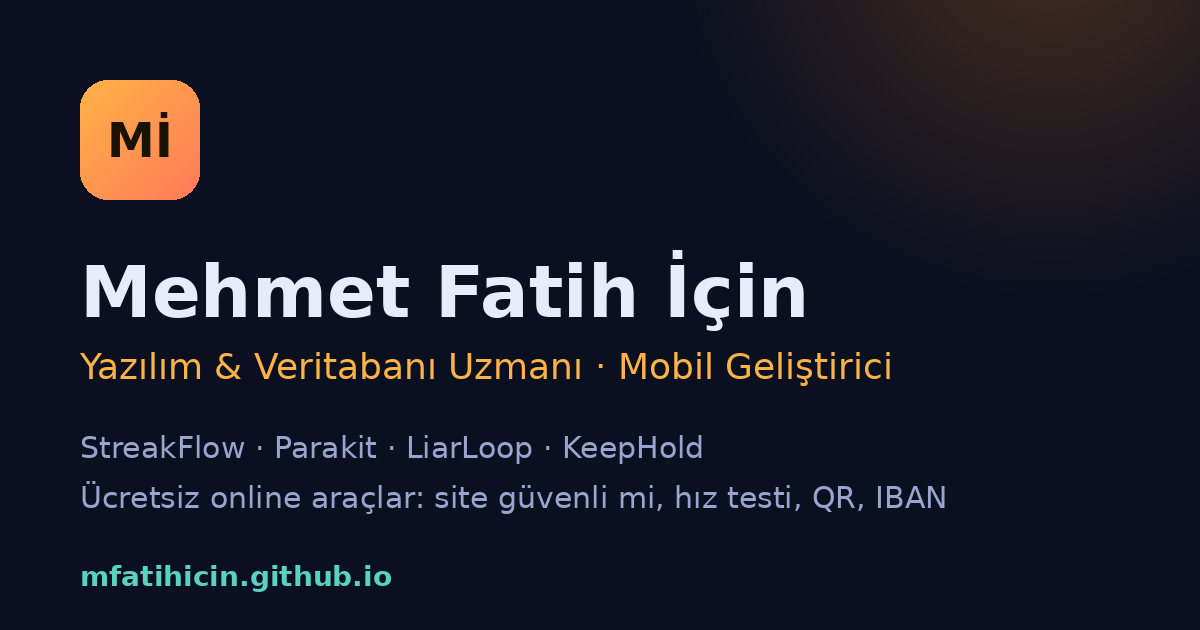
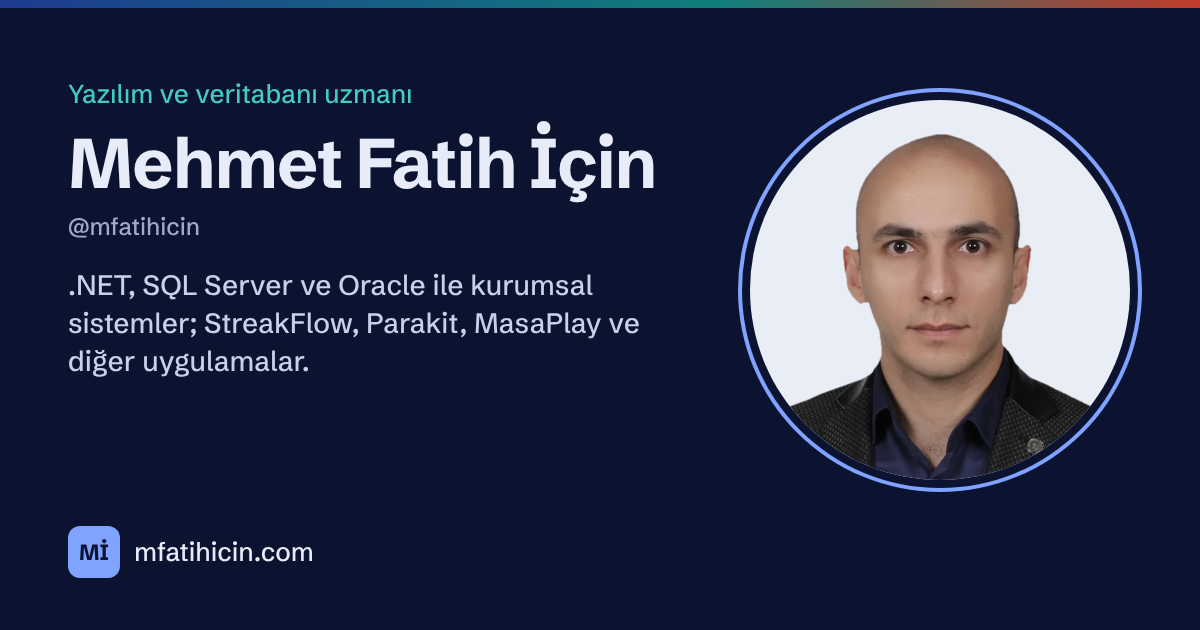
Paylaşım görseli: fotoğraflı, mfatihicin.com adresli yeni og.png ve İngilizce og-en.png
Claude-Session: https://claude.ai/code/session_01YXe37xFWctmTS5ioxSwMex

diff --git a/en/index.html b/en/index.html
@@ -18,11 +18,11 @@
 <meta property="og:title" content="Mehmet Fatih İçin (mfatihicin) — Software and Database Specialist, Enterprise Systems and Mobile Apps">
 <meta property="og:description" content="Mehmet Fatih İçin: software and database specialist with 15+ years building ticketing, access control, ERP and integration systems for the National Palaces of Türkiye; independent developer of six mobile apps.">
 <meta property="og:url" content="https://mfatihicin.com/en/">
-<meta property="og:image" content="https://mfatihicin.com/assets/og.png">
+<meta property="og:image" content="https://mfatihicin.com/assets/og-en.png">
 <meta name="twitter:card" content="summary_large_image">
 <meta name="twitter:title" content="Mehmet Fatih İçin (mfatihicin) — Software and Database Specialist, Enterprise Systems and Mobile Apps">
 <meta name="twitter:description" content="Mehmet Fatih İçin: software and database specialist with 15+ years building ticketing, access control, ERP and integration systems for the National Palaces of Türkiye; independent developer of six mobile apps.">
-<meta name="twitter:image" content="https://mfatihicin.com/assets/og.png">
+<meta name="twitter:image" content="https://mfatihicin.com/assets/og-en.png">
 <link rel="icon" href="/assets/favicon.svg" type="image/svg+xml">
 <link rel="apple-touch-icon" href="/assets/icon-180.png">
 <link rel="manifest" href="/manifest.webmanifest">
@@ -35,7 +35,7 @@
 gtag("consent","default",{ad_storage:"denied",ad_user_data:"denied",ad_personalization:"denied",analytics_storage:"denied"});
 window.loadGA=function(){if(window._gaL)return;window._gaL=1;gtag("consent","update",{analytics_storage:"granted"});gtag("js",new Date());gtag("config","G-3SZL3PBNQ6");var s=document.createElement("script");s.async=true;s.src="https://www.googletagmanager.com/gtag/js?id=G-3SZL3PBNQ6";document.head.appendChild(s)};
 var _c=null;try{_c=localStorage.getItem("consent")}catch(e){}if(_c==="granted")loadGA();</script>
-<script type="application/ld+json">{"@context": "https://schema.org", "@graph": [{"@type": "WebSite", "@id": "https://mfatihicin.com/#website", "url": "https://mfatihicin.com/", "name": "Mehmet Fatih İçin", "inLanguage": "tr-TR", "publisher": {"@id": "https://mfatihicin.com/#person"}}, {"@type": "Person", "@id": "https://mfatihicin.com/#person", "name": "Mehmet Fatih İçin", "url": "https://mfatihicin.com/", "image": {"@type": "ImageObject", "@id": "https://mfatihicin.com/#photo", "url": "https://mfatihicin.com/assets/img/mehmet-fatih-icin.jpg", "contentUrl": "https://mfatihicin.com/assets/img/mehmet-fatih-icin.jpg", "width": 1200, "height": 1200, "caption": "Mehmet Fatih İçin", "creditText": "Mehmet Fatih İçin", "copyrightNotice": "© Mehmet Fatih İçin", "creator": {"@type": "Person", "@id": "https://mfatihicin.com/#person", "name": "Mehmet Fatih İçin"}, "license": "https://mfatihicin.com/yasal#lisans", "acquireLicensePage": "https://mfatihicin.com/yasal#lisans"}, "givenName": "Mehmet Fatih", "familyName": "İçin", "alternateName": ["mfatihicin", "@mfatihicin", "M. Fatih İçin", "Fatih İçin", "Mehmet Fatih Icin", "M. Fatih Icin", "Fatih Icin"], "disambiguatingDescription": "Millî Saraylar İdaresi Başkanlığı'nda yazılım ve veritabanı uzmanı; StreakFlow, Parakit, LiarLoop, KeepHold, Netgaze ve MasaPlay mobil uygulamalarının geliştiricisi (mfatihicin).", "description": "Millî Saraylar'ın biletleme, turnike ve geçiş kontrol, acente portalı ve ERP sistemlerini tek geliştirici olarak kuran yazılım ve veritabanı uzmanı; StreakFlow, Parakit, LiarLoop, KeepHold, Netgaze ve MasaPlay uygulamalarının geliştiricisi.", "hasOccupation": {"@type": "Occupation", "name": "Yazılım ve Veritabanı Uzmanı", "skills": ".NET Core, C#, SQL Server, Oracle, React Native, donanım entegrasyonu"}, "jobTitle": "Yazılım ve Veritabanı Uzmanı", "email": "mailto:support@mfatihicin.com", "address": {"@type": "PostalAddress", "addressLocality": "İstanbul", "addressCountry": "TR"}, "worksFor": {"@type": "GovernmentOrganization", "name": "T.C. Cumhurbaşkanlığı Millî Saraylar İdaresi Başkanlığı", "url": "https://www.millisaraylar.gov.tr/"}, "alumniOf": [{"@type": "CollegeOrUniversity", "name": "Anadolu Üniversitesi"}, {"@type": "CollegeOrUniversity", "name": "Ordu Üniversitesi"}], "knowsAbout": ["Biletleme sistemleri", "Turnike ve geçiş kontrol sistemleri", "Donanım entegrasyonu", "KPS entegrasyonu", "TÜRSAB entegrasyonu", "Sanal POS entegrasyonu", ".NET Core", "C#", "ASP.NET Core", "Microservices", "REST API", "SQL Server", "Oracle", "React Native", "RFID entegrasyonu", "e-Devlet entegrasyonu", "Mobil uygulama geliştirme"], "sameAs": ["https://www.linkedin.com/in/mfatihicin", "https://github.com/mfatihicin", "https://t.me/mfatihicin", "https://apps.apple.com/tr/developer/mehmet-fatih-icin/id6785829154", "https://play.google.com/store/apps/developer?id=mfatihicin"]}, {"@type": "ProfilePage", "url": "https://mfatihicin.com/en/", "name": "Mehmet Fatih İçin — Software and Database Specialist", "mainEntity": {"@id": "https://mfatihicin.com/#person"}, "inLanguage": "en", "dateModified": "2026-11-15T19:40:03+03:00"}, {"@type": "FAQPage", "mainEntity": [{"@type": "Question", "name": "What systems has Mehmet Fatih İçin built?", "acceptedAnswer": {"@type": "Answer", "text": "As sole developer at the National Palaces Administration of Türkiye: a turnstile and access control system, a central e-ticketing and box-office platform, handheld ticket validation, a B2B portal for travel agencies, three mobile apps for visitors, agencies and management, monitoring services, a corporate ERP, a staff attendance system and an RFID-based artifact tracking system. Details are on the Projects page."}}, {"@type": "Question", "name": "Who is Mehmet Fatih İçin?", "acceptedAnswer": {"@type": "Answer", "text": "A software and database specialist based in Istanbul with more than 15 years of experience, and the independent developer of StreakFlow, Parakit, LiarLoop, KeepHold, Netgaze and MasaPlay."}}, {"@type": "Question", "name": "Do you work with international clients?", "acceptedAnswer": {"@type": "Answer", "text": "Yes, remotely, in English or Turkish."}}]}]}</script>
+<script type="application/ld+json">{"@context": "https://schema.org", "@graph": [{"@type": "WebSite", "@id": "https://mfatihicin.com/#website", "url": "https://mfatihicin.com/", "name": "Mehmet Fatih İçin", "inLanguage": "tr-TR", "publisher": {"@id": "https://mfatihicin.com/#person"}}, {"@type": "Person", "@id": "https://mfatihicin.com/#person", "name": "Mehmet Fatih İçin", "url": "https://mfatihicin.com/", "image": {"@type": "ImageObject", "@id": "https://mfatihicin.com/#photo", "url": "https://mfatihicin.com/assets/img/mehmet-fatih-icin.jpg", "contentUrl": "https://mfatihicin.com/assets/img/mehmet-fatih-icin.jpg", "width": 1200, "height": 1200, "caption": "Mehmet Fatih İçin", "creditText": "Mehmet Fatih İçin", "copyrightNotice": "© Mehmet Fatih İçin", "creator": {"@type": "Person", "@id": "https://mfatihicin.com/#person", "name": "Mehmet Fatih İçin"}, "license": "https://mfatihicin.com/yasal#lisans", "acquireLicensePage": "https://mfatihicin.com/yasal#lisans"}, "givenName": "Mehmet Fatih", "familyName": "İçin", "alternateName": ["mfatihicin", "@mfatihicin", "M. Fatih İçin", "Fatih İçin", "Mehmet Fatih Icin", "M. Fatih Icin", "Fatih Icin"], "disambiguatingDescription": "Millî Saraylar İdaresi Başkanlığı'nda yazılım ve veritabanı uzmanı; StreakFlow, Parakit, LiarLoop, KeepHold, Netgaze ve MasaPlay mobil uygulamalarının geliştiricisi (mfatihicin).", "description": "Millî Saraylar'ın biletleme, turnike ve geçiş kontrol, acente portalı ve ERP sistemlerini tek geliştirici olarak kuran yazılım ve veritabanı uzmanı; StreakFlow, Parakit, LiarLoop, KeepHold, Netgaze ve MasaPlay uygulamalarının geliştiricisi.", "hasOccupation": {"@type": "Occupation", "name": "Yazılım ve Veritabanı Uzmanı", "skills": ".NET Core, C#, SQL Server, Oracle, React Native, donanım entegrasyonu"}, "jobTitle": "Yazılım ve Veritabanı Uzmanı", "email": "mailto:support@mfatihicin.com", "address": {"@type": "PostalAddress", "addressLocality": "İstanbul", "addressCountry": "TR"}, "worksFor": {"@type": "GovernmentOrganization", "name": "T.C. Cumhurbaşkanlığı Millî Saraylar İdaresi Başkanlığı", "url": "https://www.millisaraylar.gov.tr/"}, "alumniOf": [{"@type": "CollegeOrUniversity", "name": "Anadolu Üniversitesi"}, {"@type": "CollegeOrUniversity", "name": "Ordu Üniversitesi"}], "knowsAbout": ["Biletleme sistemleri", "Turnike ve geçiş kontrol sistemleri", "Donanım entegrasyonu", "KPS entegrasyonu", "TÜRSAB entegrasyonu", "Sanal POS entegrasyonu", ".NET Core", "C#", "ASP.NET Core", "Microservices", "REST API", "SQL Server", "Oracle", "React Native", "RFID entegrasyonu", "e-Devlet entegrasyonu", "Mobil uygulama geliştirme"], "sameAs": ["https://www.linkedin.com/in/mfatihicin", "https://github.com/mfatihicin", "https://t.me/mfatihicin", "https://apps.apple.com/tr/developer/mehmet-fatih-icin/id6785829154", "https://play.google.com/store/apps/developer?id=mfatihicin"]}, {"@type": "ProfilePage", "url": "https://mfatihicin.com/en/", "name": "Mehmet Fatih İçin — Software and Database Specialist", "mainEntity": {"@id": "https://mfatihicin.com/#person"}, "inLanguage": "en", "dateModified": "2026-11-15T22:05:40+03:00"}, {"@type": "FAQPage", "mainEntity": [{"@type": "Question", "name": "What systems has Mehmet Fatih İçin built?", "acceptedAnswer": {"@type": "Answer", "text": "As sole developer at the National Palaces Administration of Türkiye: a turnstile and access control system, a central e-ticketing and box-office platform, handheld ticket validation, a B2B portal for travel agencies, three mobile apps for visitors, agencies and management, monitoring services, a corporate ERP, a staff attendance system and an RFID-based artifact tracking system. Details are on the Projects page."}}, {"@type": "Question", "name": "Who is Mehmet Fatih İçin?", "acceptedAnswer": {"@type": "Answer", "text": "A software and database specialist based in Istanbul with more than 15 years of experience, and the independent developer of StreakFlow, Parakit, LiarLoop, KeepHold, Netgaze and MasaPlay."}}, {"@type": "Question", "name": "Do you work with international clients?", "acceptedAnswer": {"@type": "Answer", "text": "Yes, remotely, in English or Turkish."}}]}]}</script>
 
 </head>
 <body>

diff --git a/index.html b/index.html
@@ -35,7 +35,7 @@
 gtag("consent","default",{ad_storage:"denied",ad_user_data:"denied",ad_personalization:"denied",analytics_storage:"denied"});
 window.loadGA=function(){if(window._gaL)return;window._gaL=1;gtag("consent","update",{analytics_storage:"granted"});gtag("js",new Date());gtag("config","G-3SZL3PBNQ6");var s=document.createElement("script");s.async=true;s.src="https://www.googletagmanager.com/gtag/js?id=G-3SZL3PBNQ6";document.head.appendChild(s)};
 var _c=null;try{_c=localStorage.getItem("consent")}catch(e){}if(_c==="granted")loadGA();</script>
-<script type="application/ld+json">{"@context": "https://schema.org", "@graph": [{"@type": "WebSite", "@id": "https://mfatihicin.com/#website", "url": "https://mfatihicin.com/", "name": "Mehmet Fatih İçin", "inLanguage": "tr-TR", "publisher": {"@id": "https://mfatihicin.com/#person"}}, {"@type": "Person", "@id": "https://mfatihicin.com/#person", "name": "Mehmet Fatih İçin", "url": "https://mfatihicin.com/", "image": {"@type": "ImageObject", "@id": "https://mfatihicin.com/#photo", "url": "https://mfatihicin.com/assets/img/mehmet-fatih-icin.jpg", "contentUrl": "https://mfatihicin.com/assets/img/mehmet-fatih-icin.jpg", "width": 1200, "height": 1200, "caption": "Mehmet Fatih İçin", "creditText": "Mehmet Fatih İçin", "copyrightNotice": "© Mehmet Fatih İçin", "creator": {"@type": "Person", "@id": "https://mfatihicin.com/#person", "name": "Mehmet Fatih İçin"}, "license": "https://mfatihicin.com/yasal#lisans", "acquireLicensePage": "https://mfatihicin.com/yasal#lisans"}, "givenName": "Mehmet Fatih", "familyName": "İçin", "alternateName": ["mfatihicin", "@mfatihicin", "M. Fatih İçin", "Fatih İçin", "Mehmet Fatih Icin", "M. Fatih Icin", "Fatih Icin"], "disambiguatingDescription": "Millî Saraylar İdaresi Başkanlığı'nda yazılım ve veritabanı uzmanı; StreakFlow, Parakit, LiarLoop, KeepHold, Netgaze ve MasaPlay mobil uygulamalarının geliştiricisi (mfatihicin).", "description": "Millî Saraylar'ın biletleme, turnike ve geçiş kontrol, acente portalı ve ERP sistemlerini tek geliştirici olarak kuran yazılım ve veritabanı uzmanı; StreakFlow, Parakit, LiarLoop, KeepHold, Netgaze ve MasaPlay uygulamalarının geliştiricisi.", "hasOccupation": {"@type": "Occupation", "name": "Yazılım ve Veritabanı Uzmanı", "skills": ".NET Core, C#, SQL Server, Oracle, React Native, donanım entegrasyonu"}, "jobTitle": "Yazılım ve Veritabanı Uzmanı", "email": "mailto:support@mfatihicin.com", "address": {"@type": "PostalAddress", "addressLocality": "İstanbul", "addressCountry": "TR"}, "worksFor": {"@type": "GovernmentOrganization", "name": "T.C. Cumhurbaşkanlığı Millî Saraylar İdaresi Başkanlığı", "url": "https://www.millisaraylar.gov.tr/"}, "alumniOf": [{"@type": "CollegeOrUniversity", "name": "Anadolu Üniversitesi"}, {"@type": "CollegeOrUniversity", "name": "Ordu Üniversitesi"}], "knowsAbout": ["Biletleme sistemleri", "Turnike ve geçiş kontrol sistemleri", "Donanım entegrasyonu", "KPS entegrasyonu", "TÜRSAB entegrasyonu", "Sanal POS entegrasyonu", ".NET Core", "C#", "ASP.NET Core", "Microservices", "REST API", "SQL Server", "Oracle", "React Native", "RFID entegrasyonu", "e-Devlet entegrasyonu", "Mobil uygulama geliştirme"], "sameAs": ["https://www.linkedin.com/in/mfatihicin", "https://github.com/mfatihicin", "https://t.me/mfatihicin", "https://apps.apple.com/tr/developer/mehmet-fatih-icin/id6785829154", "https://play.google.com/store/apps/developer?id=mfatihicin"]}, {"@type": "ProfilePage", "@id": "https://mfatihicin.com/#profile", "url": "https://mfatihicin.com/", "name": "Mehmet Fatih İçin — Yazılım & Veritabanı Uzmanı", "mainEntity": {"@id": "https://mfatihicin.com/#person"}, "dateModified": "2026-11-15T19:40:03+03:00", "inLanguage": "tr-TR"}, {"@type": "FAQPage", "mainEntity": [{"@type": "Question", "name": "Mehmet Fatih İçin hangi sistemleri geliştirdi?", "acceptedAnswer": {"@type": "Answer", "text": "Millî Saraylar İdaresi'nde tek geliştirici olarak turnike ve geçiş kontrol sistemi, merkezi e-bilet ve gişe platformu, el terminali uygulaması, seyahat acenteleri için B2B portal, kurumun üç mobil uygulaması (Saray Müzeleri, Acente, Yönetim), sürekli izleme servisleri, kurumsal ERP, PDKS ve RFID destekli tarihi eser takip sistemini geliştirdi. Ayrıntılar Projeler sayfasındadır."}}, {"@type": "Question", "name": "Mehmet Fatih İçin kimdir?", "acceptedAnswer": {"@type": "Answer", "text": "İstanbul'da yaşayan, 15 yılı aşkın deneyime sahip yazılım ve veritabanı uzmanıdır. T.C. Cumhurbaşkanlığı Millî Saraylar İdaresi'nde biletleme, ERP, PDKS ve entegrasyon sistemleri geliştirmekte; ayrıca StreakFlow, Parakit, LiarLoop, KeepHold, Netgaze ve MasaPlay gibi mobil uygulamalar yayınlamaktadır."}}, {"@type": "Question", "name": "Hangi konularda danışmanlık ve proje desteği veriyorsunuz?", "acceptedAnswer": {"@type": "Answer", "text": ".NET Core / C# backend ve API geliştirme, SQL Server ve Oracle veritabanı tasarımı ve performans iyileştirme, kamu ve banka entegrasyonları ile React Native mobil uygulama geliştirme."}}, {"@type": "Question", "name": "Uygulamalarınız ücretli mi?", "acceptedAnswer": {"@type": "Answer", "text": "Tüm uygulamalar ücretsiz indirilir. Ek özellikler abonelik yerine tek seferlik Premium satın alma ile açılır."}}]}]}</script>
+<script type="application/ld+json">{"@context": "https://schema.org", "@graph": [{"@type": "WebSite", "@id": "https://mfatihicin.com/#website", "url": "https://mfatihicin.com/", "name": "Mehmet Fatih İçin", "inLanguage": "tr-TR", "publisher": {"@id": "https://mfatihicin.com/#person"}}, {"@type": "Person", "@id": "https://mfatihicin.com/#person", "name": "Mehmet Fatih İçin", "url": "https://mfatihicin.com/", "image": {"@type": "ImageObject", "@id": "https://mfatihicin.com/#photo", "url": "https://mfatihicin.com/assets/img/mehmet-fatih-icin.jpg", "contentUrl": "https://mfatihicin.com/assets/img/mehmet-fatih-icin.jpg", "width": 1200, "height": 1200, "caption": "Mehmet Fatih İçin", "creditText": "Mehmet Fatih İçin", "copyrightNotice": "© Mehmet Fatih İçin", "creator": {"@type": "Person", "@id": "https://mfatihicin.com/#person", "name": "Mehmet Fatih İçin"}, "license": "https://mfatihicin.com/yasal#lisans", "acquireLicensePage": "https://mfatihicin.com/yasal#lisans"}, "givenName": "Mehmet Fatih", "familyName": "İçin", "alternateName": ["mfatihicin", "@mfatihicin", "M. Fatih İçin", "Fatih İçin", "Mehmet Fatih Icin", "M. Fatih Icin", "Fatih Icin"], "disambiguatingDescription": "Millî Saraylar İdaresi Başkanlığı'nda yazılım ve veritabanı uzmanı; StreakFlow, Parakit, LiarLoop, KeepHold, Netgaze ve MasaPlay mobil uygulamalarının geliştiricisi (mfatihicin).", "description": "Millî Saraylar'ın biletleme, turnike ve geçiş kontrol, acente portalı ve ERP sistemlerini tek geliştirici olarak kuran yazılım ve veritabanı uzmanı; StreakFlow, Parakit, LiarLoop, KeepHold, Netgaze ve MasaPlay uygulamalarının geliştiricisi.", "hasOccupation": {"@type": "Occupation", "name": "Yazılım ve Veritabanı Uzmanı", "skills": ".NET Core, C#, SQL Server, Oracle, React Native, donanım entegrasyonu"}, "jobTitle": "Yazılım ve Veritabanı Uzmanı", "email": "mailto:support@mfatihicin.com", "address": {"@type": "PostalAddress", "addressLocality": "İstanbul", "addressCountry": "TR"}, "worksFor": {"@type": "GovernmentOrganization", "name": "T.C. Cumhurbaşkanlığı Millî Saraylar İdaresi Başkanlığı", "url": "https://www.millisaraylar.gov.tr/"}, "alumniOf": [{"@type": "CollegeOrUniversity", "name": "Anadolu Üniversitesi"}, {"@type": "CollegeOrUniversity", "name": "Ordu Üniversitesi"}], "knowsAbout": ["Biletleme sistemleri", "Turnike ve geçiş kontrol sistemleri", "Donanım entegrasyonu", "KPS entegrasyonu", "TÜRSAB entegrasyonu", "Sanal POS entegrasyonu", ".NET Core", "C#", "ASP.NET Core", "Microservices", "REST API", "SQL Server", "Oracle", "React Native", "RFID entegrasyonu", "e-Devlet entegrasyonu", "Mobil uygulama geliştirme"], "sameAs": ["https://www.linkedin.com/in/mfatihicin", "https://github.com/mfatihicin", "https://t.me/mfatihicin", "https://apps.apple.com/tr/developer/mehmet-fatih-icin/id6785829154", "https://play.google.com/store/apps/developer?id=mfatihicin"]}, {"@type": "ProfilePage", "@id": "https://mfatihicin.com/#profile", "url": "https://mfatihicin.com/", "name": "Mehmet Fatih İçin — Yazılım & Veritabanı Uzmanı", "mainEntity": {"@id": "https://mfatihicin.com/#person"}, "dateModified": "2026-11-15T22:05:40+03:00", "inLanguage": "tr-TR"}, {"@type": "FAQPage", "mainEntity": [{"@type": "Question", "name": "Mehmet Fatih İçin hangi sistemleri geliştirdi?", "acceptedAnswer": {"@type": "Answer", "text": "Millî Saraylar İdaresi'nde tek geliştirici olarak turnike ve geçiş kontrol sistemi, merkezi e-bilet ve gişe platformu, el terminali uygulaması, seyahat acenteleri için B2B portal, kurumun üç mobil uygulaması (Saray Müzeleri, Acente, Yönetim), sürekli izleme servisleri, kurumsal ERP, PDKS ve RFID destekli tarihi eser takip sistemini geliştirdi. Ayrıntılar Projeler sayfasındadır."}}, {"@type": "Question", "name": "Mehmet Fatih İçin kimdir?", "acceptedAnswer": {"@type": "Answer", "text": "İstanbul'da yaşayan, 15 yılı aşkın deneyime sahip yazılım ve veritabanı uzmanıdır. T.C. Cumhurbaşkanlığı Millî Saraylar İdaresi'nde biletleme, ERP, PDKS ve entegrasyon sistemleri geliştirmekte; ayrıca StreakFlow, Parakit, LiarLoop, KeepHold, Netgaze ve MasaPlay gibi mobil uygulamalar yayınlamaktadır."}}, {"@type": "Question", "name": "Hangi konularda danışmanlık ve proje desteği veriyorsunuz?", "acceptedAnswer": {"@type": "Answer", "text": ".NET Core / C# backend ve API geliştirme, SQL Server ve Oracle veritabanı tasarımı ve performans iyileştirme, kamu ve banka entegrasyonları ile React Native mobil uygulama geliştirme."}}, {"@type": "Question", "name": "Uygulamalarınız ücretli mi?", "acceptedAnswer": {"@type": "Answer", "text": "Tüm uygulamalar ücretsiz indirilir. Ek özellikler abonelik yerine tek seferlik Premium satın alma ile açılır."}}]}]}</script>
 
 </head>
 <body>

diff --git a/en/tools/index.html b/en/tools/index.html
@@ -18,11 +18,11 @@
 <meta property="og:title" content="Free Online Tools — What Is My IP, Speed Test, Merge PDF, QR Code, No Sign-up">
 <meta property="og:description" content="29 free online tools that run in your browser: what is my IP, internet speed test, website safety check, merge PDF, image compressor, QR code generator, calculators and developer utilities.">
 <meta property="og:url" content="https://mfatihicin.com/en/tools/">
-<meta property="og:image" content="https://mfatihicin.com/assets/og.png">
+<meta property="og:image" content="https://mfatihicin.com/assets/og-en.png">
 <meta name="twitter:card" content="summary_large_image">
 <meta name="twitter:title" content="Free Online Tools — What Is My IP, Speed Test, Merge PDF, QR Code, No Sign-up">
 <meta name="twitter:description" content="29 free online tools that run in your browser: what is my IP, internet speed test, website safety check, merge PDF, image compressor, QR code generator, calculators and developer utilities.">
-<meta name="twitter:image" content="https://mfatihicin.com/assets/og.png">
+<meta name="twitter:image" content="https://mfatihicin.com/assets/og-en.png">
 <link rel="icon" href="/assets/favicon.svg" type="image/svg+xml">
 <link rel="apple-touch-icon" href="/assets/icon-180.png">
 <link rel="manifest" href="/manifest.webmanifest">

diff --git a/en/apps/masaplay.html b/en/apps/masaplay.html
@@ -18,11 +18,11 @@
 <meta property="og:title" content="MasaPlay — Okey, Backgammon (Tavla), Batak &amp; Pişti — Play Friends Online or Offline">
 <meta property="og:description" content="MasaPlay brings 24 games to one app: Okey, Backgammon (Tavla), Batak, Pişti, King and 101 Okey. Play friends online or smart bots offline. Free on iPhone and Android.">
 <meta property="og:url" content="https://mfatihicin.com/en/apps/masaplay">
-<meta property="og:image" content="https://mfatihicin.com/assets/og.png">
+<meta property="og:image" content="https://mfatihicin.com/assets/og-en.png">
 <meta name="twitter:card" content="summary_large_image">
 <meta name="twitter:title" content="MasaPlay — Okey, Backgammon (Tavla), Batak &amp; Pişti — Play Friends Online or Offline">
 <meta name="twitter:description" content="MasaPlay brings 24 games to one app: Okey, Backgammon (Tavla), Batak, Pişti, King and 101 Okey. Play friends online or smart bots offline. Free on iPhone and Android.">
-<meta name="twitter:image" content="https://mfatihicin.com/assets/og.png">
+<meta name="twitter:image" content="https://mfatihicin.com/assets/og-en.png">
 <link rel="icon" href="/assets/favicon.svg" type="image/svg+xml">
 <link rel="apple-touch-icon" href="/assets/icon-180.png">
 <link rel="manifest" href="/manifest.webmanifest">

diff --git a/en/daily-puzzle.html b/en/daily-puzzle.html
@@ -18,11 +18,11 @@
 <meta property="og:title" content="Daily Puzzle — Crack Today&#x27;s Code (Wordle-style Number Game)">
 <meta property="og:description" content="Everyone gets the same code each day: find the 4-digit code with no repeated digits in 6 guesses. Green is the right spot, yellow the wrong spot. Keep your streak and share your result.">
 <meta property="og:url" content="https://mfatihicin.com/en/daily-puzzle">
-<meta property="og:image" content="https://mfatihicin.com/assets/og.png">
+<meta property="og:image" content="https://mfatihicin.com/assets/og-en.png">
 <meta name="twitter:card" content="summary_large_image">
 <meta name="twitter:title" content="Daily Puzzle — Crack Today&#x27;s Code (Wordle-style Number Game)">
 <meta name="twitter:description" content="Everyone gets the same code each day: find the 4-digit code with no repeated digits in 6 guesses. Green is the right spot, yellow the wrong spot. Keep your streak and share your result.">
-<meta name="twitter:image" content="https://mfatihicin.com/assets/og.png">
+<meta name="twitter:image" content="https://mfatihicin.com/assets/og-en.png">
 <link rel="icon" href="/assets/favicon.svg" type="image/svg+xml">
 <link rel="apple-touch-icon" href="/assets/icon-180.png">
 <link rel="manifest" href="/manifest.webmanifest">

diff --git a/en/apps/keephold.html b/en/apps/keephold.html
@@ -18,11 +18,11 @@
 <meta property="og:title" content="KeepHold — Private Photo Vault, Hidden Files &amp; Password Manager (iPhone)">
 <meta property="og:description" content="Hide photos, videos, documents, notes and passwords in an AES-256 encrypted vault. No account, no server — everything stays on your iPhone. Face ID, panic lock, 2FA codes.">
 <meta property="og:url" content="https://mfatihicin.com/en/apps/keephold">
-<meta property="og:image" content="https://mfatihicin.com/assets/og.png">
+<meta property="og:image" content="https://mfatihicin.com/assets/og-en.png">
 <meta name="twitter:card" content="summary_large_image">
 <meta name="twitter:title" content="KeepHold — Private Photo Vault, Hidden Files &amp; Password Manager (iPhone)">
 <meta name="twitter:description" content="Hide photos, videos, documents, notes and passwords in an AES-256 encrypted vault. No account, no server — everything stays on your iPhone. Face ID, panic lock, 2FA codes.">
-<meta name="twitter:image" content="https://mfatihicin.com/assets/og.png">
+<meta name="twitter:image" content="https://mfatihicin.com/assets/og-en.png">
 <link rel="icon" href="/assets/favicon.svg" type="image/svg+xml">
 <link rel="apple-touch-icon" href="/assets/icon-180.png">
 <link rel="manifest" href="/manifest.webmanifest">

diff --git a/en/resume.html b/en/resume.html
@@ -18,11 +18,11 @@
 <meta property="og:title" content="Resume — Mehmet Fatih İçin, Software and Database Specialist">
 <meta property="og:description" content="Resume of Mehmet Fatih İçin: 15+ years in software and databases, ticketing, ERP and integration systems for the National Palaces of Türkiye; .NET Core, SQL Server, Oracle, React Native.">
 <meta property="og:url" content="https://mfatihicin.com/en/resume">
-<meta property="og:image" content="https://mfatihicin.com/assets/og.png">
+<meta property="og:image" content="https://mfatihicin.com/assets/og-en.png">
 <meta name="twitter:card" content="summary_large_image">
 <meta name="twitter:title" content="Resume — Mehmet Fatih İçin, Software and Database Specialist">
 <meta name="twitter:description" content="Resume of Mehmet Fatih İçin: 15+ years in software and databases, ticketing, ERP and integration systems for the National Palaces of Türkiye; .NET Core, SQL Server, Oracle, React Native.">
-<meta name="twitter:image" content="https://mfatihicin.com/assets/og.png">
+<meta name="twitter:image" content="https://mfatihicin.com/assets/og-en.png">
 <link rel="icon" href="/assets/favicon.svg" type="image/svg+xml">
 <link rel="apple-touch-icon" href="/assets/icon-180.png">
 <link rel="manifest" href="/manifest.webmanifest">

diff --git a/en/services.html b/en/services.html
@@ -18,11 +18,11 @@
 <meta property="og:title" content="Services — .NET, SQL Server, Integrations and Mobile Apps | Mehmet Fatih İçin">
 <meta property="og:description" content="Freelance .NET API development, SQL Server and Oracle performance tuning, public-sector and banking integrations, and React Native mobile app development. Request a quote.">
 <meta property="og:url" content="https://mfatihicin.com/en/services">
-<meta property="og:image" content="https://mfatihicin.com/assets/og.png">
+<meta property="og:image" content="https://mfatihicin.com/assets/og-en.png">
 <meta name="twitter:card" content="summary_large_image">
 <meta name="twitter:title" content="Services — .NET, SQL Server, Integrations and Mobile Apps | Mehmet Fatih İçin">
 <meta name="twitter:description" content="Freelance .NET API development, SQL Server and Oracle performance tuning, public-sector and banking integrations, and React Native mobile app development. Request a quote.">
-<meta name="twitter:image" content="https://mfatihicin.com/assets/og.png">
+<meta name="twitter:image" content="https://mfatihicin.com/assets/og-en.png">
 <link rel="icon" href="/assets/favicon.svg" type="image/svg+xml">
 <link rel="apple-touch-icon" href="/assets/icon-180.png">
 <link rel="manifest" href="/manifest.webmanifest">

diff --git a/en/logic-test.html b/en/logic-test.html
@@ -18,11 +18,11 @@
 <meta property="og:title" content="Logic and Pattern Test — Free Online IQ-Style Test, Instant Results">
 <meta property="og:description" content="A free 20-question online logic test: shape matrices, number sequences and verbal analogies. 12 minutes, instant results with pattern, numerical and verbal sub-scores. No sign-up.">
 <meta property="og:url" content="https://mfatihicin.com/en/logic-test">
-<meta property="og:image" content="https://mfatihicin.com/assets/og.png">
+<meta property="og:image" content="https://mfatihicin.com/assets/og-en.png">
 <meta name="twitter:card" content="summary_large_image">
 <meta name="twitter:title" content="Logic and Pattern Test — Free Online IQ-Style Test, Instant Results">
 <meta name="twitter:description" content="A free 20-question online logic test: shape matrices, number sequences and verbal analogies. 12 minutes, instant results with pattern, numerical and verbal sub-scores. No sign-up.">
-<meta name="twitter:image" content="https://mfatihicin.com/assets/og.png">
+<meta name="twitter:image" content="https://mfatihicin.com/assets/og-en.png">
 <link rel="icon" href="/assets/favicon.svg" type="image/svg+xml">
 <link rel="apple-touch-icon" href="/assets/icon-180.png">
 <link rel="manifest" href="/manifest.webmanifest">

diff --git a/en/apps/netgaze.html b/en/apps/netgaze.html
@@ -18,11 +18,11 @@
 <meta property="og:title" content="Netgaze — Network Scanner, WiFi Analyzer &amp; Hidden Camera Finder">
 <meta property="og:description" content="Netgaze finds every device on your network, scores your WiFi security, runs ping, traceroute and port scans, and helps find hidden cameras. No account; data stays on your phone.">
 <meta property="og:url" content="https://mfatihicin.com/en/apps/netgaze">
-<meta property="og:image" content="https://mfatihicin.com/assets/og.png">
+<meta property="og:image" content="https://mfatihicin.com/assets/og-en.png">
 <meta name="twitter:card" content="summary_large_image">
 <meta name="twitter:title" content="Netgaze — Network Scanner, WiFi Analyzer &amp; Hidden Camera Finder">
 <meta name="twitter:description" content="Netgaze finds every device on your network, scores your WiFi security, runs ping, traceroute and port scans, and helps find hidden cameras. No account; data stays on your phone.">
-<meta name="twitter:image" content="https://mfatihicin.com/assets/og.png">
+<meta name="twitter:image" content="https://mfatihicin.com/assets/og-en.png">
 <link rel="icon" href="/assets/favicon.svg" type="image/svg+xml">
 <link rel="apple-touch-icon" href="/assets/icon-180.png">
 <link rel="manifest" href="/manifest.webmanifest">

diff --git a/en/apps/index.html b/en/apps/index.html
@@ -18,11 +18,11 @@
 <meta property="og:title" content="Mobile Apps — StreakFlow, Parakit, LiarLoop, KeepHold, Netgaze, MasaPlay | Mehmet Fatih İçin">
 <meta property="og:description" content="iPhone and Android apps by Mehmet Fatih İçin: StreakFlow, Parakit, LiarLoop, KeepHold, Netgaze and MasaPlay — with privacy policies and support.">
 <meta property="og:url" content="https://mfatihicin.com/en/apps/">
-<meta property="og:image" content="https://mfatihicin.com/assets/og.png">
+<meta property="og:image" content="https://mfatihicin.com/assets/og-en.png">
 <meta name="twitter:card" content="summary_large_image">
 <meta name="twitter:title" content="Mobile Apps — StreakFlow, Parakit, LiarLoop, KeepHold, Netgaze, MasaPlay | Mehmet Fatih İçin">
 <meta name="twitter:description" content="iPhone and Android apps by Mehmet Fatih İçin: StreakFlow, Parakit, LiarLoop, KeepHold, Netgaze and MasaPlay — with privacy policies and support.">
-<meta name="twitter:image" content="https://mfatihicin.com/assets/og.png">
+<meta name="twitter:image" content="https://mfatihicin.com/assets/og-en.png">
 <link rel="icon" href="/assets/favicon.svg" type="image/svg+xml">
 <link rel="apple-touch-icon" href="/assets/icon-180.png">
 <link rel="manifest" href="/manifest.webmanifest">

diff --git a/en/tools/word-counter.html b/en/tools/word-counter.html
@@ -18,11 +18,11 @@
 <meta property="og:title" content="Word Counter — Characters, Words, Sentences and Reading Time">
 <meta property="og:description" content="Free word and character counter: words, characters with and without spaces, sentences, paragraphs and estimated reading time. Handy for tweets, meta descriptions and essays.">
 <meta property="og:url" content="https://mfatihicin.com/en/tools/word-counter">
-<meta property="og:image" content="https://mfatihicin.com/assets/og.png">
+<meta property="og:image" content="https://mfatihicin.com/assets/og-en.png">
 <meta name="twitter:card" content="summary_large_image">
 <meta name="twitter:title" content="Word Counter — Characters, Words, Sentences and Reading Time">
 <meta name="twitter:description" content="Free word and character counter: words, characters with and without spaces, sentences, paragraphs and estimated reading time. Handy for tweets, meta descriptions and essays.">
-<meta name="twitter:image" content="https://mfatihicin.com/assets/og.png">
+<meta name="twitter:image" content="https://mfatihicin.com/assets/og-en.png">
 <link rel="icon" href="/assets/favicon.svg" type="image/svg+xml">
 <link rel="apple-touch-icon" href="/assets/icon-180.png">
 <link rel="manifest" href="/manifest.webmanifest">
